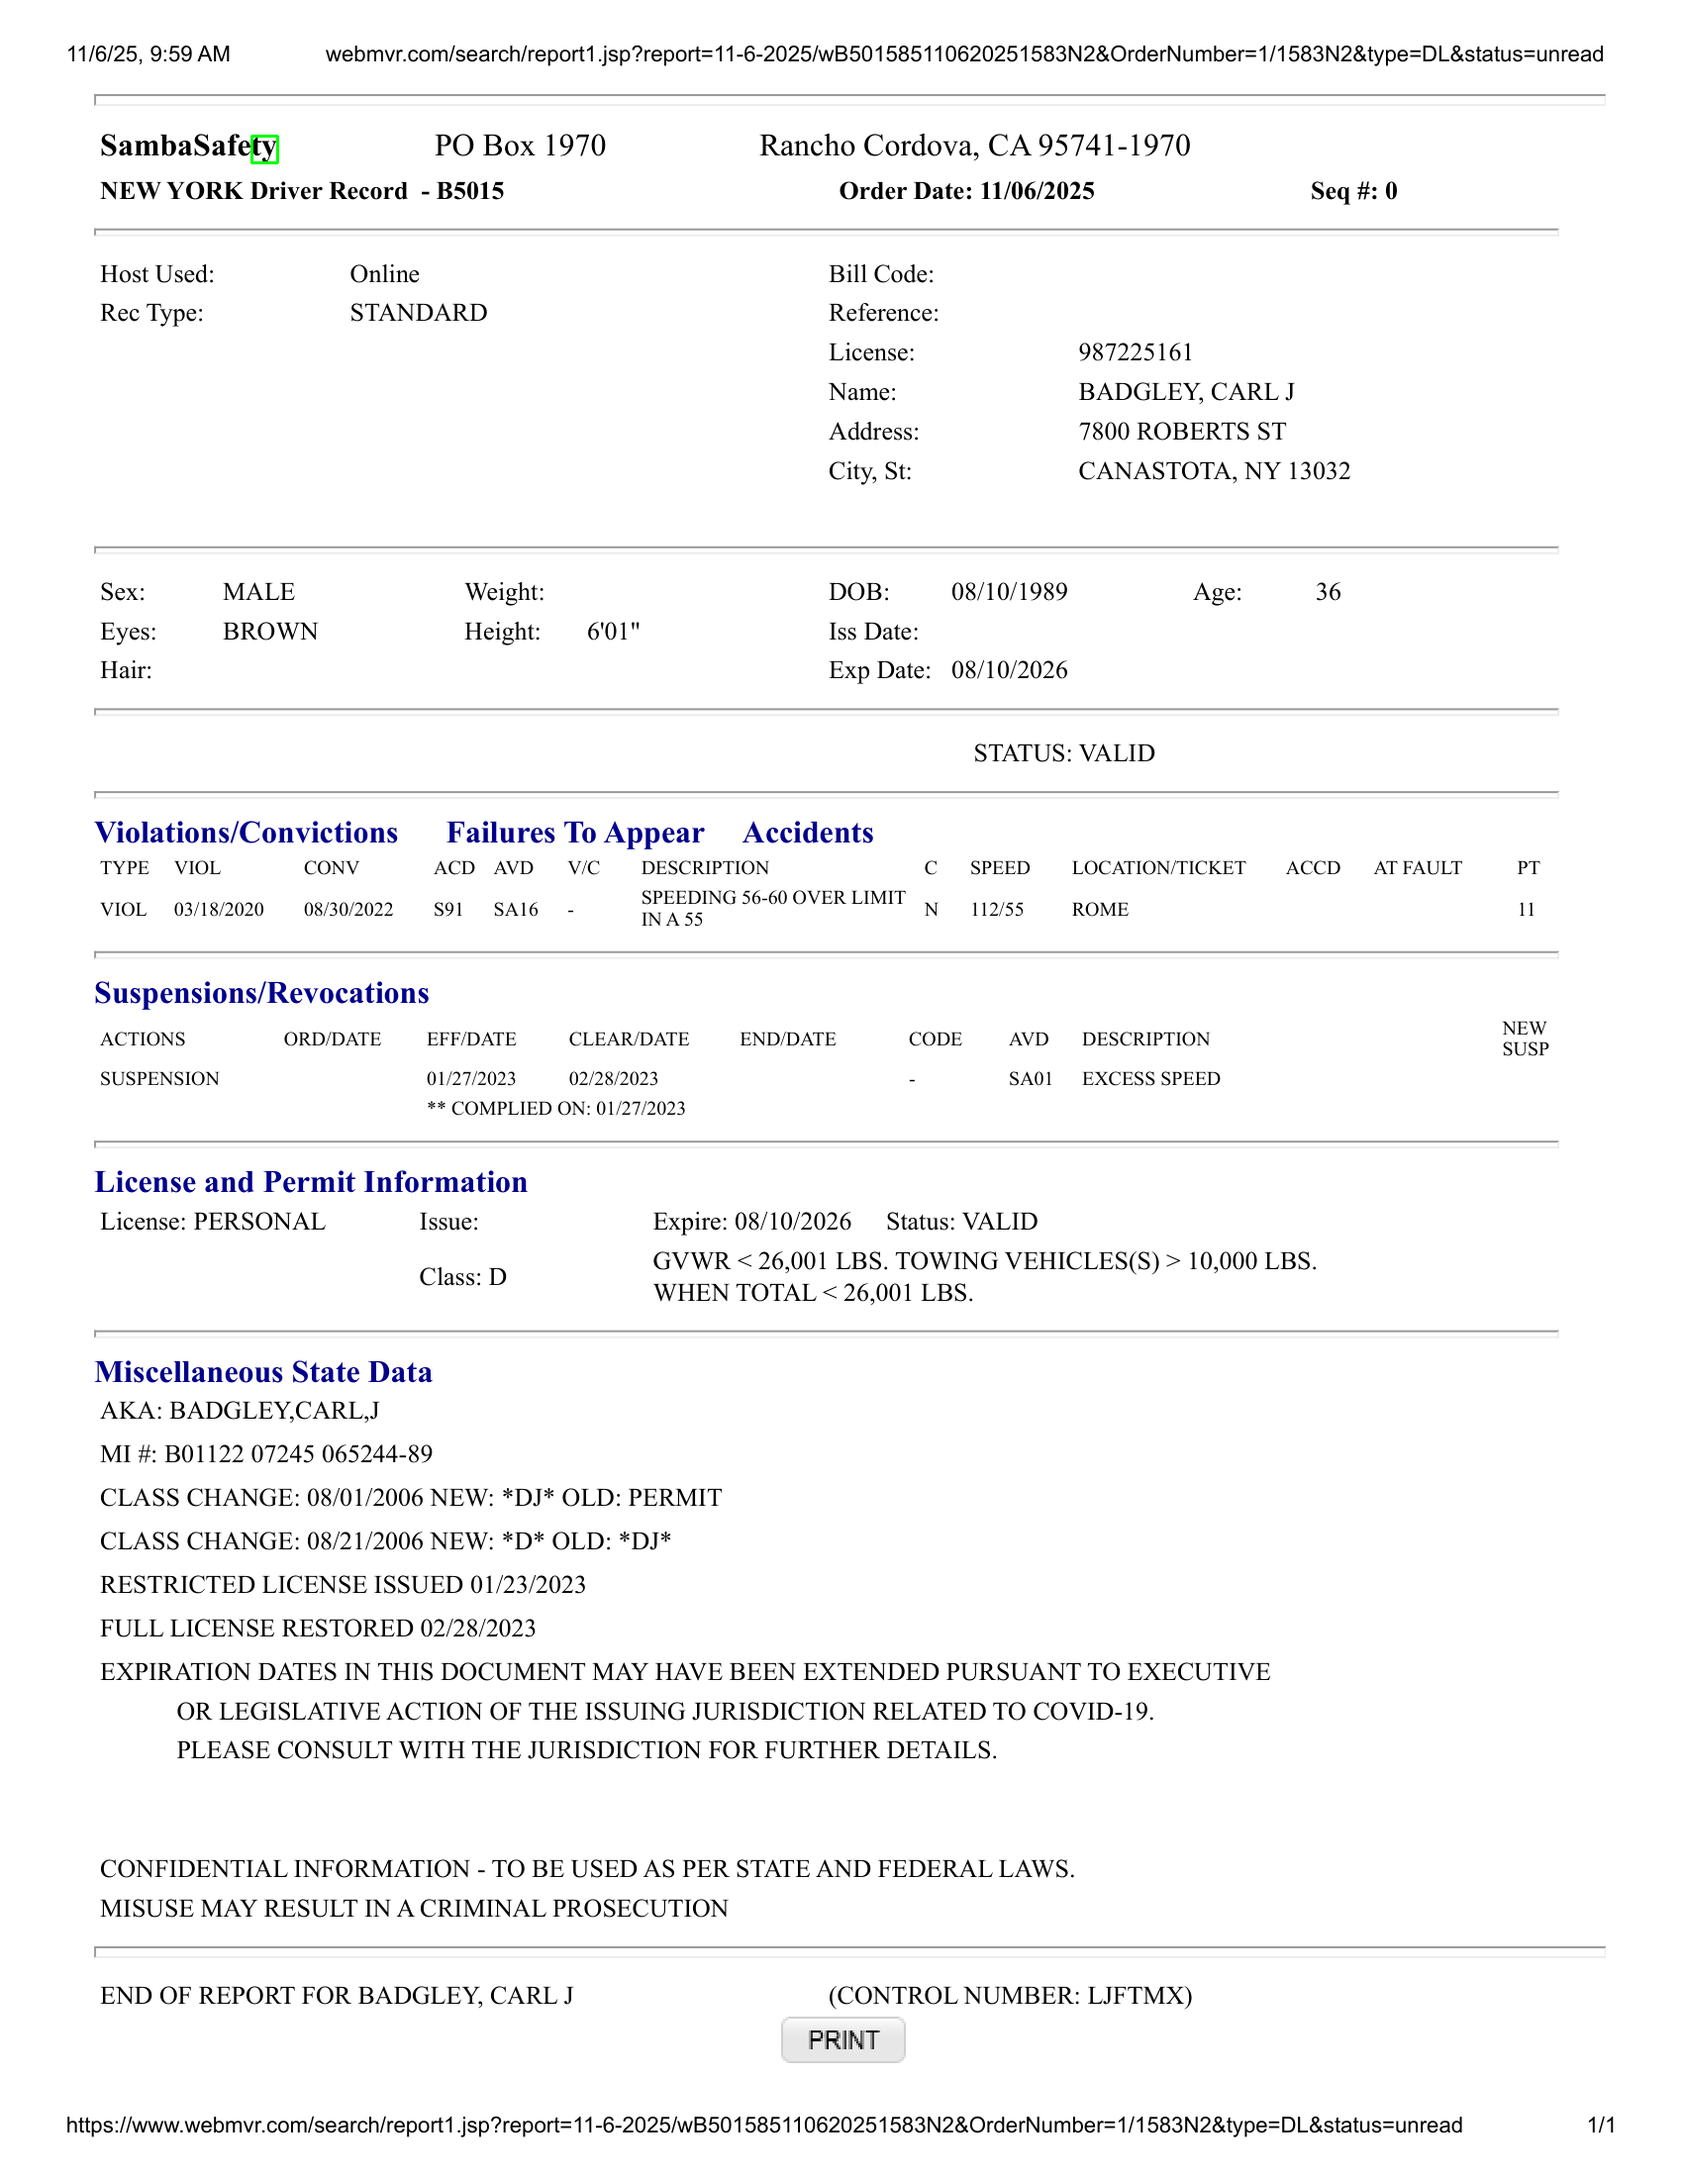
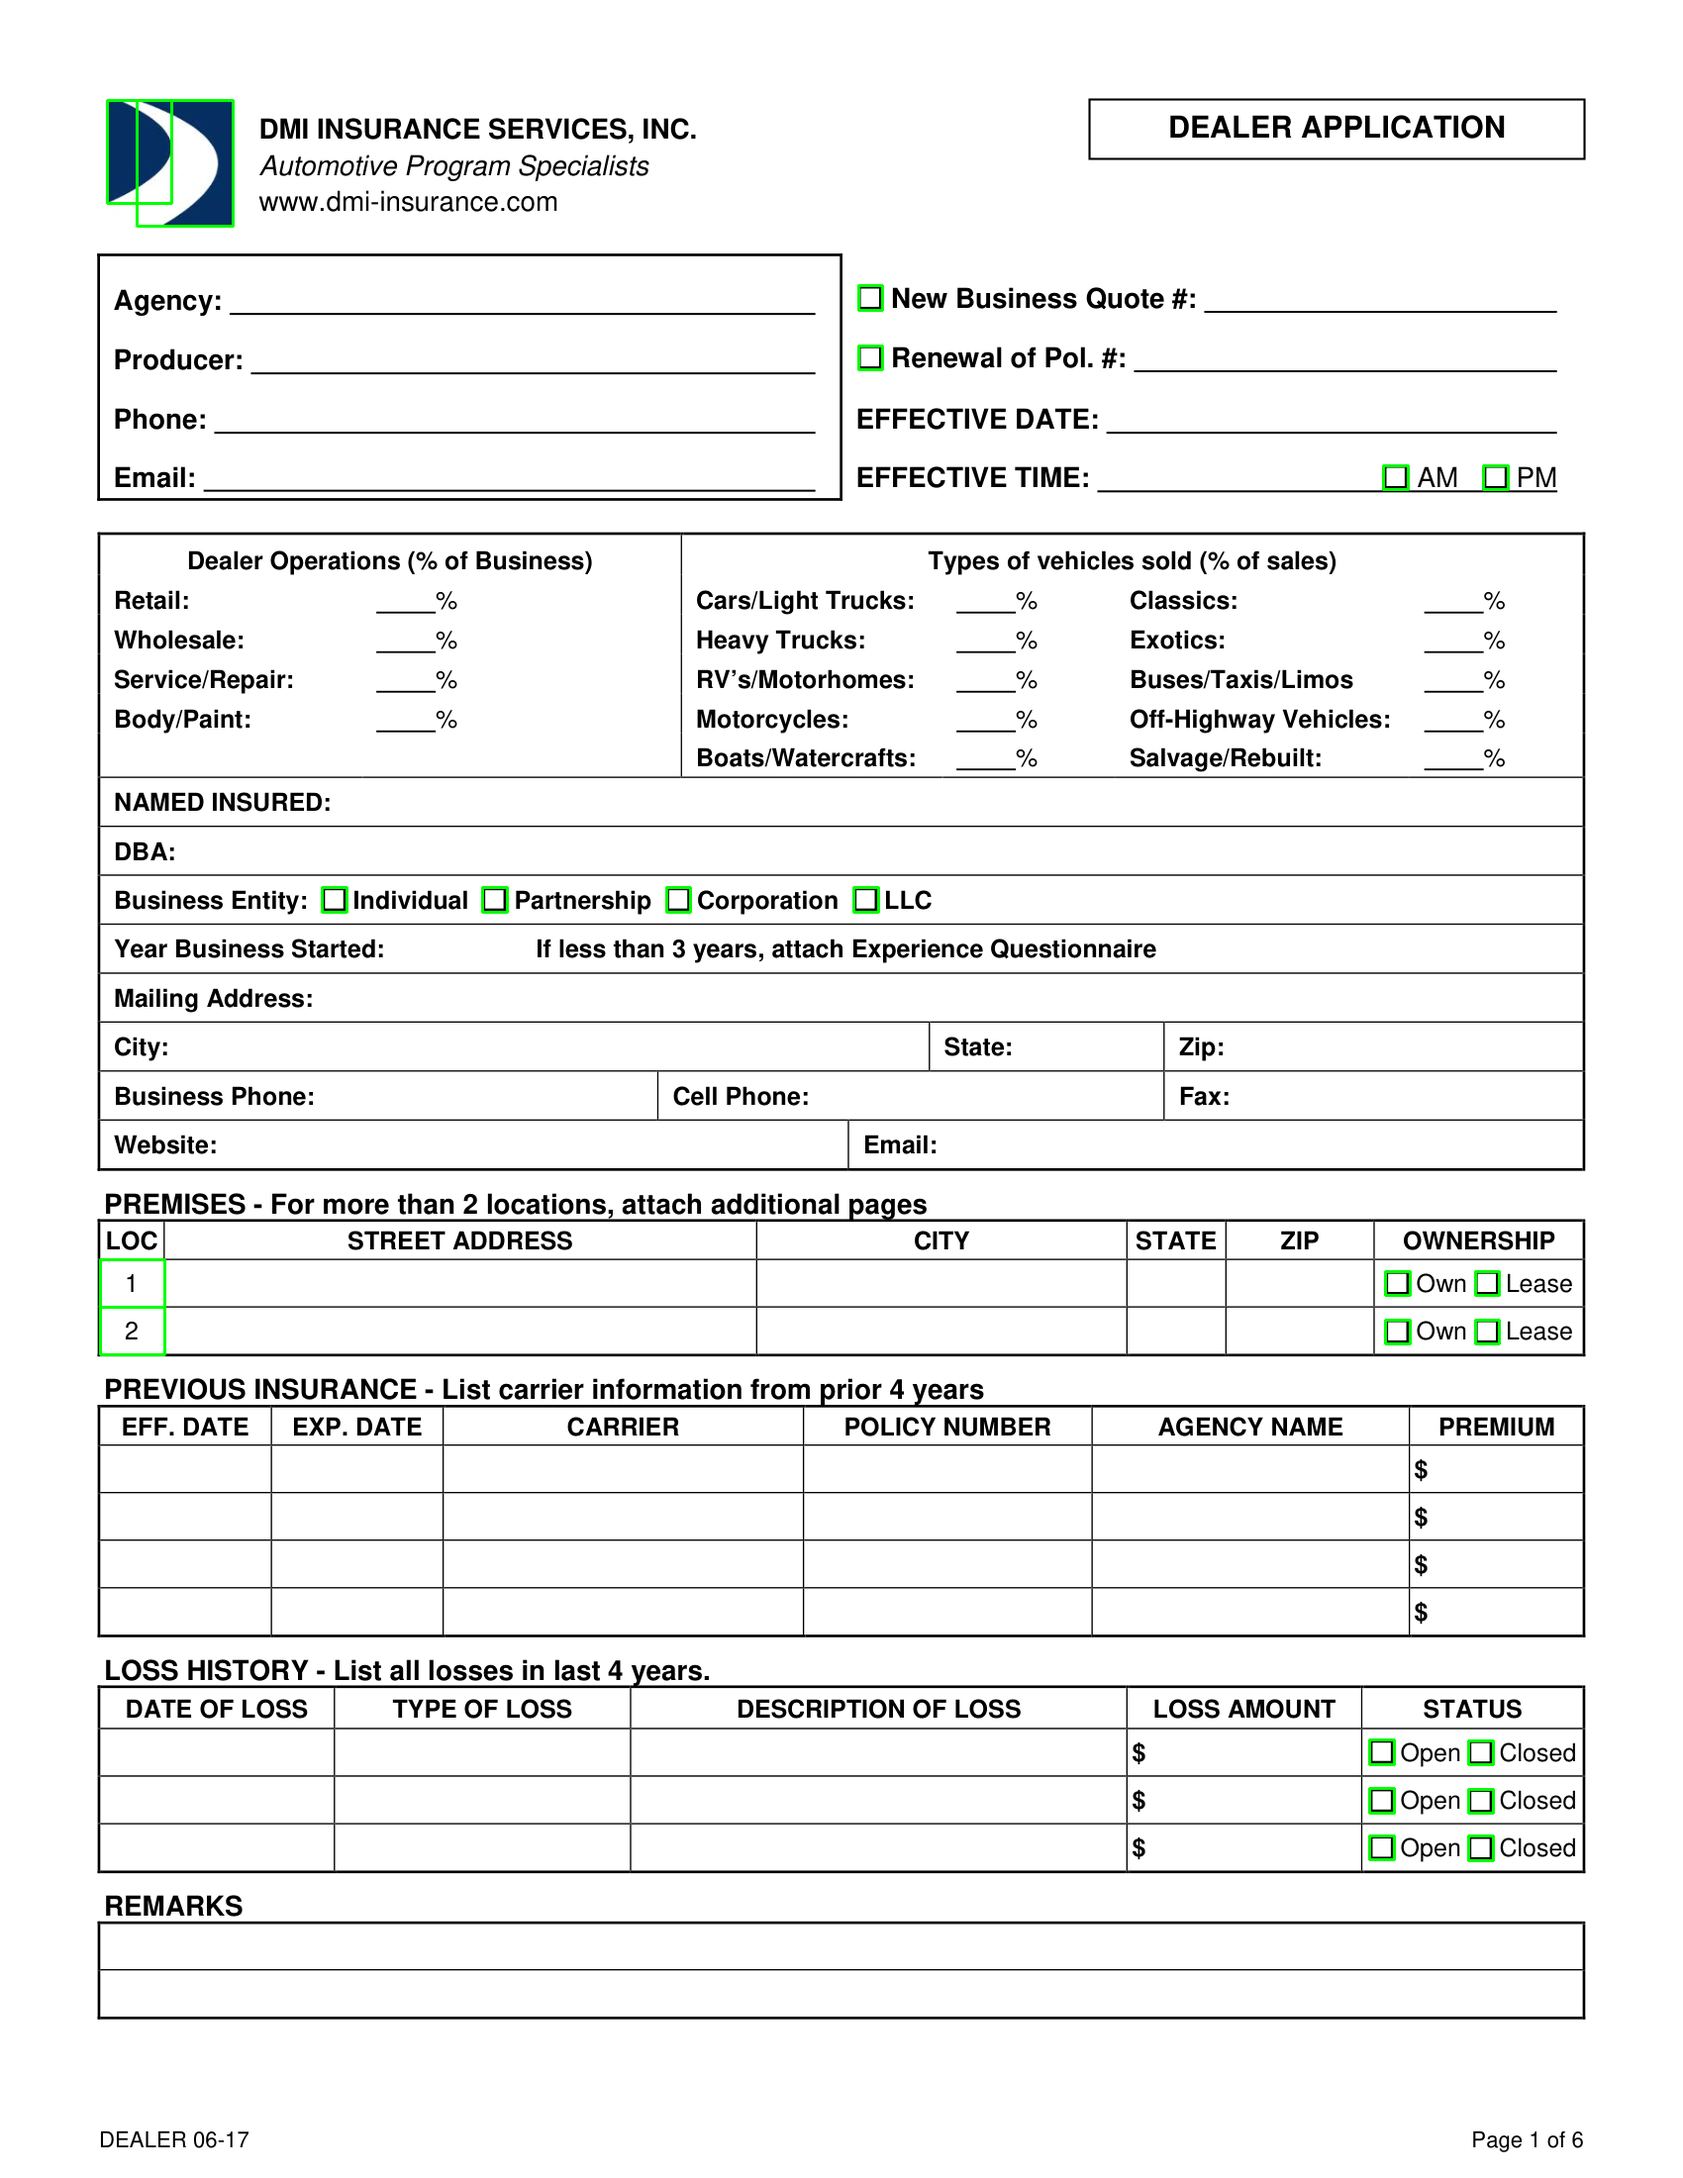
Lower checkbox fill threshold from 20% to 4% to detect X marks
X marks (☒) in checkboxes only fill ~5-15% of the box area.
Previous threshold of 20% was missing all X marks.
Now detects X marks with fill ratios as low as 4%.

diff --git a/Tabs/MvrRunner/shared.py b/Tabs/MvrRunner/shared.py
@@ -372,9 +372,12 @@ def _detect_checkboxes_in_pdf(pdf_path: str, page_num: int = 0, region: Tuple[fl
             fill_ratio = dark_pixels / total_pixels
             
             # Determine if checked based on fill ratio
-            # Empty checkbox: ~0-15% fill, Checked: >25% fill
-            is_checked = fill_ratio > 0.20
-            confidence = min(1.0, fill_ratio * 2) if is_checked else min(1.0, (0.20 - fill_ratio) * 5)
+            # Empty checkbox: ~0-3% fill (just border)
+            # X-mark checkbox: ~5-15% fill (two diagonal lines)
+            # Filled checkbox: >20% fill
+            # Lowered threshold to detect X marks
+            is_checked = fill_ratio > 0.04  # 4% threshold to catch X marks
+            confidence = min(1.0, fill_ratio * 3) if is_checked else min(1.0, (0.10 - fill_ratio) * 10)
             
             checkboxes.append({
                 'x': x + offset_x,
